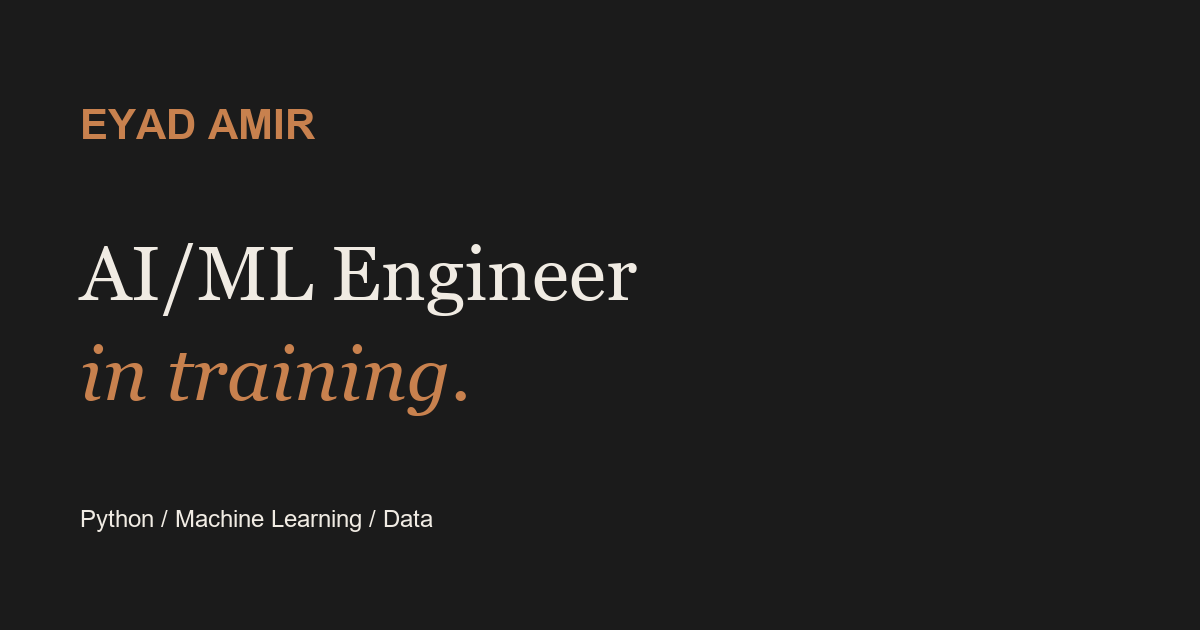
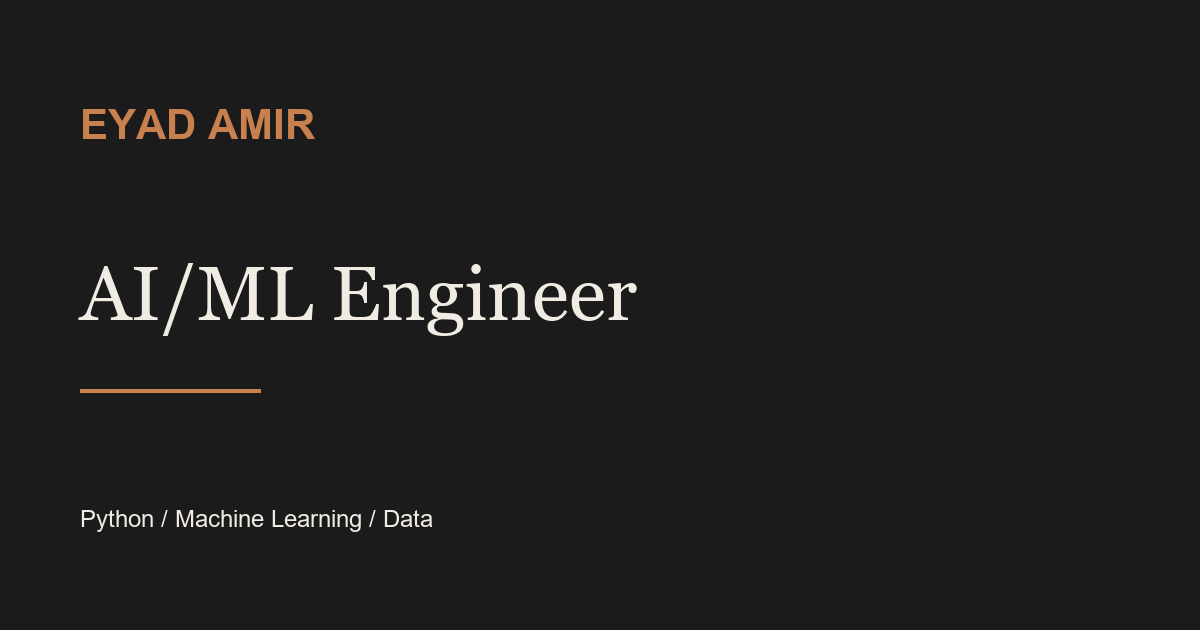
Remove in-training qualifier from headline and sharing metadata

Changed region(s): [[0.0617, 0.3921, 0.5242, 0.5429], [0.0617, 0.5429, 0.4008, 0.6635]]

diff --git a/index.html b/index.html
@@ -4,14 +4,14 @@
     <meta charset="UTF-8" />
     <meta name="viewport" content="width=device-width, initial-scale=1.0" />
     <meta name="theme-color" content="#1B1B1B" />
-    <title>Eyad Amir | AI/ML Engineer in training</title>
+    <title>Eyad Amir | AI/ML Engineer</title>
     <meta
       name="description"
       content="Eyad Amir, Computer & Communication Engineering student at Alexandria University. Explore practical Python, machine learning, and data projects."
     />
     <meta
       property="og:title"
-      content="Eyad Amir | AI/ML Engineer in training"
+      content="Eyad Amir | AI/ML Engineer"
     />
     <meta
       property="og:description"

diff --git a/src/data/site.js b/src/data/site.js
@@ -1,6 +1,6 @@
 export const site = {
   name: "Eyad Amir",
-  role: "AI/ML Engineer in training",
+  role: "AI/ML Engineer",
   university:
     "Computer & Communication Engineering student at Alexandria University",
   location: "Alexandria, Egypt",
@@ -13,7 +13,6 @@ export const site = {
   hero: {
     eyebrow: "ENGINEERING WITH INTELLIGENCE",
     title: "AI/ML Engineer",
-    emphasis: "in training.",
     description:
       "Turning curiosity into practical solutions with Python, machine learning, and data.",
     rotating: ["Python", "Machine Learning", "Deep Learning", "Data"],

diff --git a/src/sections/Hero.jsx b/src/sections/Hero.jsx
@@ -29,8 +29,6 @@ export default function Hero() {
           <p className="eyebrow">{site.hero.eyebrow}</p>
           <h1 id="hero-title">
             {site.hero.title}
-            <br />
-            <em>{site.hero.emphasis}</em>
           </h1>
           <p className="hero-university">{site.university}</p>
           <p className="hero-description">{site.hero.description}</p>
